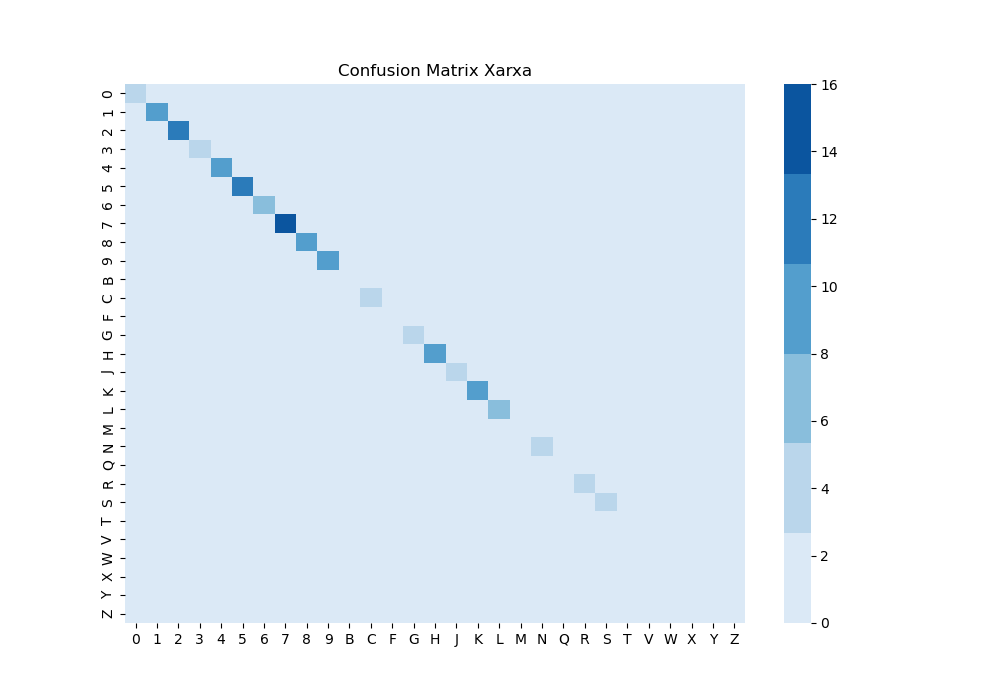
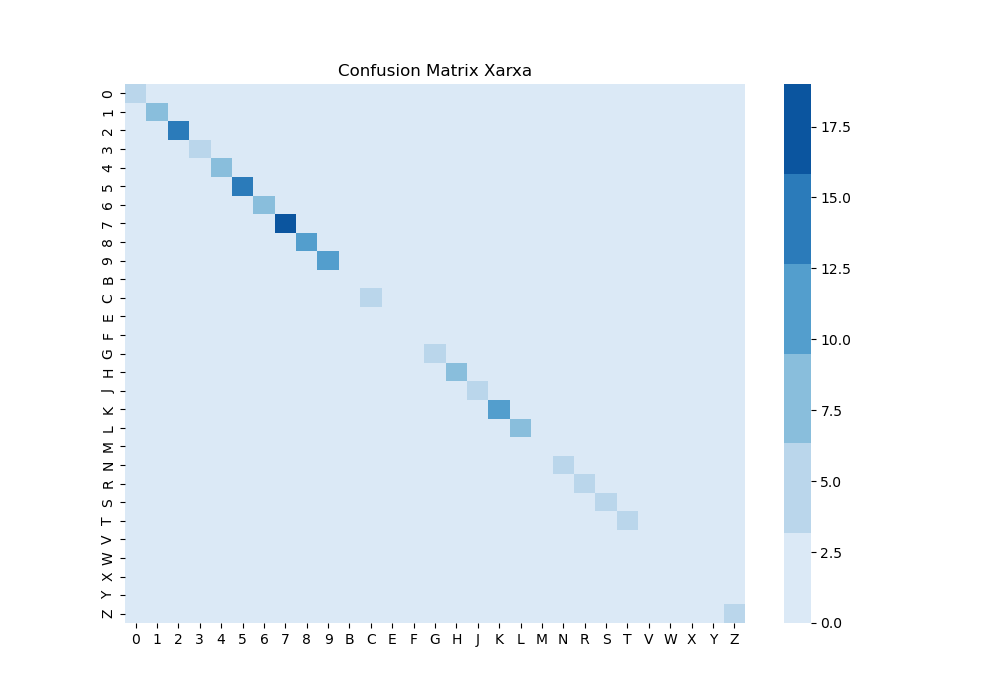
Char recog fix

diff --git a/matricules/evaluate_char_level.py b/matricules/evaluate_char_level.py
@@ -11,14 +11,13 @@ import pandas as pd
 import numpy as np
 
 # Directori amb el test
-images_dir = './matricules/test_segmentation/images'
+images_dir = './matricules/test_segmentation/images_yolo'
 
 # Hard-code labels
 labels_aux = ["2765HKR", "7784JGC", "7549LMH", "1296KSV", "2765HKR", "4135FNX", "1074KSN", "8622LW", "2765HKR",
-            "5479HHR", "3572CLX", "1842JJN", "6729HH", "7105GV", "9848HSZ", "3235MKB", "7718GZC", "1074KSN",
-            "2907HTR", "8622L", "4287KGJ", "1074KSN", "2976LY", "9101FLC", "5865LZT", "7362LWV", "5895KKT"]
-ind = [1,2,3,4,5,6,7,8,9,10,11,14,15,16,17,18,19,20,21,22,23,24,25,26,27,29,30]
-labels_dict = cotxe_dict = {f'cotxe{i}': label for i, label in zip(ind, labels_aux)}
+            "5479HHR", "3572CLX", "3572CLX", "7084JKZ", "1842JJN", "6729HHT", "7105GVT", "9848HSZ", "3235MKB", "7718GZC", "1074KSN",
+            "2907HTR", "8622LKW", "4287KGJ", "1074KSN", "2976LYC", "9101FLC", "5865LZT", "9057HST", "7362LWV", "5895KKT"]
+labels_dict = cotxe_dict = {f'cotxe{i+1}': label for i, label in enumerate(labels_aux)}
 labels = []
 
 # Mètriques
@@ -44,8 +43,8 @@ for image_filename in os.listdir(images_dir):
         # Obtenim la predicció per cada model
         svm_predictions.append(svm_recognizer(image_gray, image))
         nn_predictions.append(nn_recognizer(image_gray, image))
-        easyOcr_predictions.append(list(re.sub(r'[^A-Za-z1-9]', '', easyOCR_recognizer(image))))
-        pyt_predictions.append(pytesseract_recognizer(image))
+        easyOcr_predictions.append(easyOCR_recognizer(image_gray, image))
+        pyt_predictions.append(pytesseract_recognizer(image_gray, image))
 
 # Calculem les mètriques
 for i, predictions in enumerate([svm_predictions, nn_predictions, easyOcr_predictions, pyt_predictions]):
@@ -88,34 +87,13 @@ for i in range(len(metodes)):
     print(f"Metrics for {metodes[i]}:")
     print(f"Accuracy: {accuracies[i]:.2f}")
     print("Confusion Matrix:\n")
-    df_cm = pd.DataFrame(confusion_matrices[i], index = [i for i in lletres_cm[i]],
+    try:
+        df_cm = pd.DataFrame(confusion_matrices[i], index = [i for i in lletres_cm[i]],
                   columns = [i for i in lletres_cm[i]])
+    except:
+        df_cm = pd.DataFrame(confusion_matrices[i], index = [i for i in lletres_cm[i].replace('_', '')],
+                  columns = [i for i in lletres_cm[i].replace('_', '')])
     plt.figure(figsize = (10,7))
     sn.heatmap(df_cm, annot=False, cmap=blueish_palette)
     plt.title(f"Confusion Matrix {metodes[i]}")
     plt.savefig(f"./matricules/heatmaps/hm_{metodes[i]}.png")
-
-
-pra_char = {}
-for i in range(len(metodes)):
-    pra_char[metodes[i]] = {}
-    for char_index, char in enumerate(lletres_cm[i]):
-        
-        # Calculem la precisió per cada lletra
-        true_positive = confusion_matrices[i][char_index, char_index]
-        false_positive = sum(confusion_matrices[i][:, char_index]) - true_positive
-        false_negative = sum(confusion_matrices[i][char_index, :]) - true_positive
-        precision = true_positive / (true_positive + false_positive)
-        
-        # Calculem la recall
-        recall = true_positive / (true_positive + false_negative)
-        
-        # Calcula l'accur
-        accuracy = confusion_matrices[i][char_index][char_index] / np.sum(confusion_matrices[i][char_index])
-        
-        pra_char[metodes[i]][char] = [accuracy, precision, recall]
-
-df = pd.DataFrame(pra_char)
-df = df.transpose()
-print(df)
-print("DONE!")

diff --git a/matricules/individual_char_recog.py b/matricules/individual_char_recog.py
@@ -11,7 +11,7 @@ import easyocr
 import pytesseract
 from dotenv import load_dotenv
 import os
-
+import random
 load_dotenv()
 
 def svm_recognizer(roi_ge, roi):
@@ -77,15 +77,52 @@ def nn_recognizer(roi_ge, roi):
         result.append(predicted_letter)
     return result
 
-def easyOCR_recognizer(roi):
+def easyOCR_recognizer(roi_ge, roi):
     reader = easyocr.Reader(['en'])
-    output = reader.readtext(roi)
-    if len(output) == 0:
-        return ''
-    return output[0][1]
+    
+    bboxes = segmentChars(roi_ge, roi)
+    bboxes_sorted = sorted(bboxes, key=lambda x: x[0])
+    result = []
 
-def pytesseract_recognizer(roi):
-    return pytesseract.image_to_string(roi, config=f'--psm 8 --oem 3 -c tessedit_char_whitelist=BCDFGHJKLMNPRSTVWXYZ0123456789 --user-patterns {os.getenv("xxx_patterns")}')
+    for _,bbox in enumerate(bboxes_sorted):
+        x_roi, y_roi, w_roi, h_roi = bbox
+        char_roi = roi[y_roi:y_roi+h_roi, x_roi:x_roi+w_roi]
+        char_roi_gray = cv2.cvtColor(char_roi, cv2.COLOR_BGR2GRAY)
+        _, aux = cv2.threshold(char_roi_gray, 128, 255, cv2.THRESH_BINARY | cv2.THRESH_OTSU)
+        inverted_threshed = cv2.bitwise_not(aux)
+        prediction = reader.readtext(inverted_threshed)
+        if prediction == []:
+            result.append(random.choice("BCDFGHJKLMNPRSTVWXYZ0123456789"))
+        else:
+            result.append(prediction[0][1])
+    
+    return result
+    
+
+def pytesseract_recognizer(roi_ge, roi):
+
+    bboxes = segmentChars(roi_ge, roi)
+    bboxes_sorted = sorted(bboxes, key=lambda x: x[0])
+    result = []
+    
+    letters_whitelist = "BCDFGHJKLMNPRSTVWXYZ0123456789"
+    custom_patterns = os.getenv("xxx_patterns")
+    custom_config = f'--psm 6 -c tessedit_char_whitelist={letters_whitelist} --user-patterns {custom_patterns}'
+
+    for _,bbox in enumerate(bboxes_sorted):
+        x_roi, y_roi, w_roi, h_roi = bbox
+        char_roi = roi[y_roi:y_roi+h_roi, x_roi:x_roi+w_roi]
+        char_roi_gray = cv2.cvtColor(char_roi, cv2.COLOR_BGR2GRAY)
+        _, aux = cv2.threshold(char_roi_gray, 128, 255, cv2.THRESH_BINARY | cv2.THRESH_OTSU)
+        inverted_threshed = cv2.bitwise_not(aux)
+        prediction = pytesseract.image_to_string(inverted_threshed, config=custom_config)
+        if prediction == '':
+            random.choice(letters_whitelist)
+        else:
+            result.append(prediction[:-1])
+    
+    return result
+
 
 """
 if __name__ == '__main__':

diff --git a/matricules/evaluate_pipeline.py b/matricules/evaluate_pipeline.py
@@ -45,7 +45,7 @@ def evaluate_anpr_pipeline(img_dir, recog_mode = 'SVM', detect_mode = 'Yolo'):
     cla = 1 - (correct_characters / total_characters)
 
     # Word-Level Accuracy (WLA)
-    correct_words = sum(1 for true, recognized in zip(true_labels, recognized_labels) if (true == recognized) or (edit_distance(true, recognized) < 2))
+    correct_words = sum(1 for true, recognized in zip(true_labels, recognized_labels) if (true == recognized))
     wla = correct_words / len(true_labels)
 
     # Edit Distance
@@ -54,7 +54,7 @@ def evaluate_anpr_pipeline(img_dir, recog_mode = 'SVM', detect_mode = 'Yolo'):
     return cla, wla, edit_distances
 
 for rm in ['Yolo']:
-    for dm in ['SVM', 'Xarxa', 'EasyOCR', 'Pytesseract']:
+    for dm in ['EasyOCR', 'Xarxa']:
         cla, wla, edit_distances = evaluate_anpr_pipeline(os.getenv("evaluation_directory"), dm, rm)
         print(rm)
         print(dm)

diff --git a/matricules/ANPR_pipeline.py b/matricules/ANPR_pipeline.py
@@ -33,9 +33,9 @@ def anpr_pipeline(image_path, recog_mode = 'SVM', detect_mode = 'Yolo', debug = 
         elif recog_mode == 'Xarxa':
             recog_result = nn_recognizer(roi_ge, roi_o)
         elif recog_mode == 'EasyOCR':
-            recog_result = easyOCR_recognizer(roi_o)
+            recog_result = easyOCR_recognizer(roi_ge, roi_o)
         elif recog_mode == 'Pytesseract':
-            recog_result = pytesseract_recognizer(roi_o)
+            recog_result = pytesseract_recognizer(roi_ge, roi_o)
 
     text = ''.join(recog_result)
     if debug:

diff --git a/matricules/plateDetection_pipeline.py b/matricules/plateDetection_pipeline.py
@@ -104,7 +104,7 @@ def detect_plate_yolo(image_path, debug = False):
     x,y,w,h = x1,y1,x2-x1,y2-y1
 
     if debug:
-        cv2.rectangle(image, (x, y), (x+w, y+h), (255, 255, 0), 2)  
+        cv2.rectangle(image, (int(x), int(y)), (int(x)+int(w), int(y)+int(h)), (255, 255, 0), 2)  
 
         cv2.imshow('Image with Bounding Boxes', image)
         cv2.waitKey(0)
